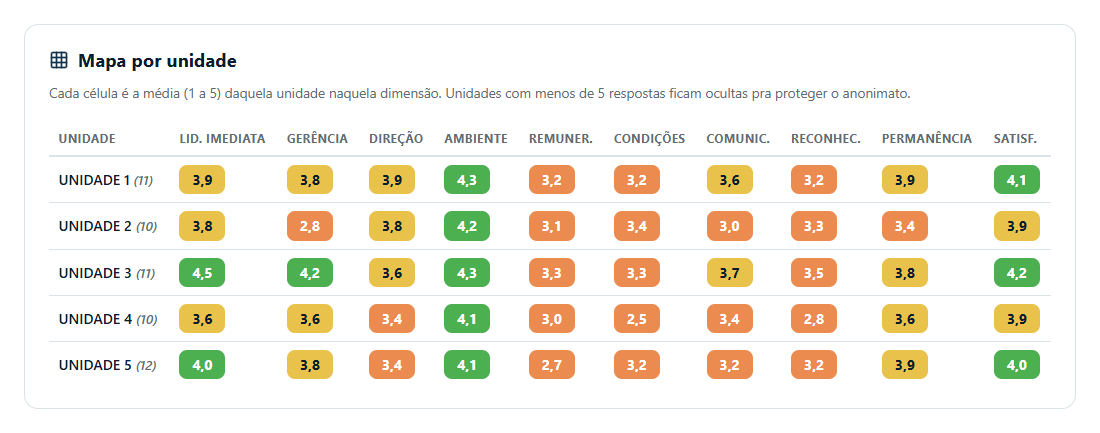
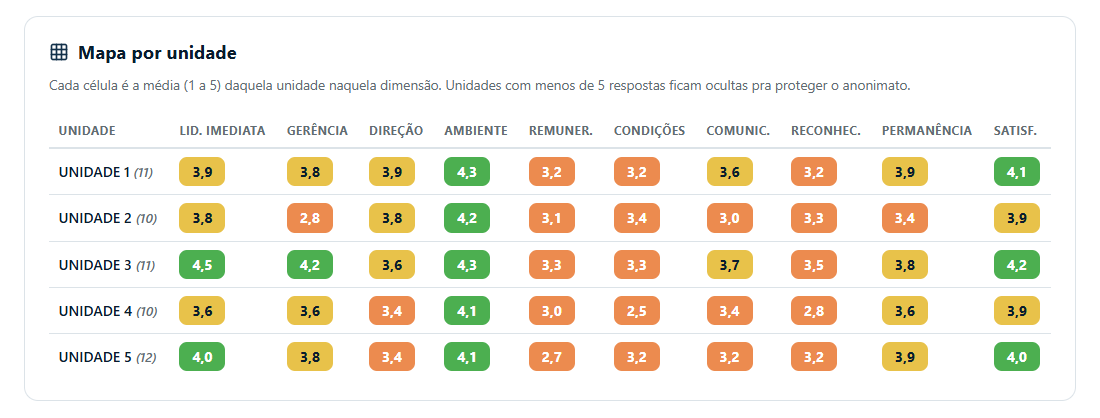
Vitrine: dashboards de clima, formulário de admissão, multiunidade e multi-CNPJ, aviso de dados fictícios

diff --git a/README.md b/README.md
@@ -27,7 +27,7 @@
 <p align="center">Foi assim que nasceu o <b>Rooten</b>. Cada tela dele saiu de um problema que eu vivi, então eu sei o peso que o RH carrega quando precisa dar conta de tudo sozinho. Eu construí o que me ajudaria, e agora quero que ajude outros RHs também.</p>
 
 <p align="center">
-🌱 Criando o <b>Rooten</b>, um portal de RH completo para empresas com várias unidades<br>
+🌱 Criando o <b>Rooten</b>, um portal de RH completo para empresas multiunidade e multi-CNPJ<br>
 📋 Rotinas de folha, admissão, desligamento, férias e benefícios<br>
 🧠 Clima organizacional, riscos psicossociais (NR-1) e segurança do trabalho<br>
 ⚙ Automação com Cloudflare Workers, Google Apps Script e Python
@@ -70,7 +70,7 @@
 <h2 align="center">🌱 Rooten, portal de RH</h2>
 
 <p align="center">
-  Uma plataforma de RH para empresas com várias unidades. O colaborador resolve a vida dele pelo celular, o gestor pede e acompanha tudo sem WhatsApp, e o RH enxerga a operação inteira num painel.<br>
+  Uma plataforma de RH para empresas multiunidade e multi-CNPJ. O colaborador resolve a vida dele pelo celular, o gestor pede e acompanha tudo sem WhatsApp, e o RH enxerga a operação inteira num painel.<br>
   <b><a href="https://portal-rh-demo.portal-rh.workers.dev">▶ Abrir a demo</a></b> · dados fictícios da "Empresa Demo"
 </p>
 
@@ -85,7 +85,7 @@
 <table>
   <tr>
     <td width="50%"><b>🧑💼 Feito por quem é do RH</b><br>Cada tela saiu de um problema real do dia a dia de um RH generalista.</td>
-    <td width="50%"><b>🏬 Pensado para várias unidades</b><br>Gestor em cada unidade, RH centralizado, cada um vendo só o que é seu.</td>
+    <td width="50%"><b>🏬 Multiunidade e multi-CNPJ</b><br>Gestor em cada unidade, RH centralizado, cada um vendo só o que é seu.</td>
   </tr>
   <tr>
     <td><b>⚖ Regra trabalhista dentro do sistema</b><br>Na admissão, o salário é conferido pelo piso da convenção coletiva da data de início, proporcional à jornada.</td>
@@ -113,6 +113,17 @@
   <img src="img/colab/denuncia.png" width="16%" alt="Canal de denúncia anônimo">
 </p>
 <p align="center"><sub>Entrada por CPF · atalhos grandes · atestado já preenchido · recadastramento em formato de conferência · holerite explicado · denúncia anônima</sub></p>
+
+<h3 align="center">📝 Admissão digital</h3>
+
+<p align="center">
+  <img src="img/colab/admissao-tipos.png" width="60%" alt="Escolha do tipo de contratação">
+  <img src="img/colab/admissao-form-celular.png" width="22%" alt="Formulário de admissão no celular">
+</p>
+<p align="center">
+  <img src="img/colab/admissao-form.png" width="60%" alt="Formulário de admissão em etapas">
+</p>
+<p align="center"><sub>9 tipos de contratação, cada um com a sua base legal · o candidato preenche pelo celular, em 6 etapas, com foto e documentos · o que ele digita fica salvo no aparelho por 7 dias</sub></p>
 
 <h3 align="center">🧑💼 Para o gestor</h3>
 
@@ -155,15 +166,27 @@
 </p>
 <p align="center"><sub>Ficha única do colaborador, com edição campo a campo e histórico · documentos organizados por pessoa, categoria e mês, com download em ZIP</sub></p>
 
+<h4 align="center">📊 Pesquisa de clima</h4>
+
+<p align="center">
+  <img src="img/rh/clima.png" width="49%" alt="Pontos de atenção, respostas, satisfação e eNPS">
+  <img src="img/rh/clima-lideranca.png" width="49%" alt="Liderança em 3 camadas por unidade">
+</p>
+<p align="center">
+  <img src="img/rh/clima-favorabilidade.png" width="49%" alt="Favorabilidade por dimensão">
+  <img src="img/rh/clima-mapa.png" width="49%" alt="Mapa de calor por unidade">
+</p>
+<p align="center">
+  <img src="img/rh/clima-enps.png" width="49%" alt="eNPS por unidade">
+  <img src="img/rh/clima-participacao.png" width="49%" alt="Participação por unidade">
+</p>
+<p align="center"><sub>Pontos de atenção destacados automaticamente · liderança em 3 camadas (imediata, gerência e direção) · favorabilidade por dimensão · mapa de calor por unidade · eNPS e participação por unidade · grupos com menos de 5 respostas não aparecem</sub></p>
+
 <p align="center">
   <img src="img/rh/perfil.png" width="49%" alt="Painel do perfil comportamental por unidade">
-  <img src="img/rh/clima.png" width="49%" alt="Relatório da pesquisa de clima">
-</p>
-<p align="center">
-  <img src="img/rh/clima-mapa.png" width="49%" alt="Mapa do clima por unidade">
   <img src="img/rh/nr1.png" width="49%" alt="Avaliação de riscos psicossociais NR-1">
 </p>
-<p align="center"><sub>Perfil comportamental por unidade · pesquisa de clima com eNPS e pontos de atenção · mapa por unidade · riscos psicossociais (NR-1)</sub></p>
+<p align="center"><sub>Perfil comportamental por unidade · riscos psicossociais (NR-1) por dimensão, para o PGR</sub></p>
 
 <p align="center">
   <img src="img/rh/kanban.png" width="49%" alt="Recrutamento em Kanban">
@@ -201,7 +224,7 @@
   <img src="img/vagas.png" width="70%" alt="Página pública de vagas">
 </p>
 
-<p align="center"><sub>O código-fonte é licenciado e fica em repositório privado</sub></p>
+<p align="center"><sub>Todas as telas e informações mostradas são fictícias, criadas para demonstração · o código-fonte é licenciado e fica em repositório privado</sub></p>
 
 ---
 
